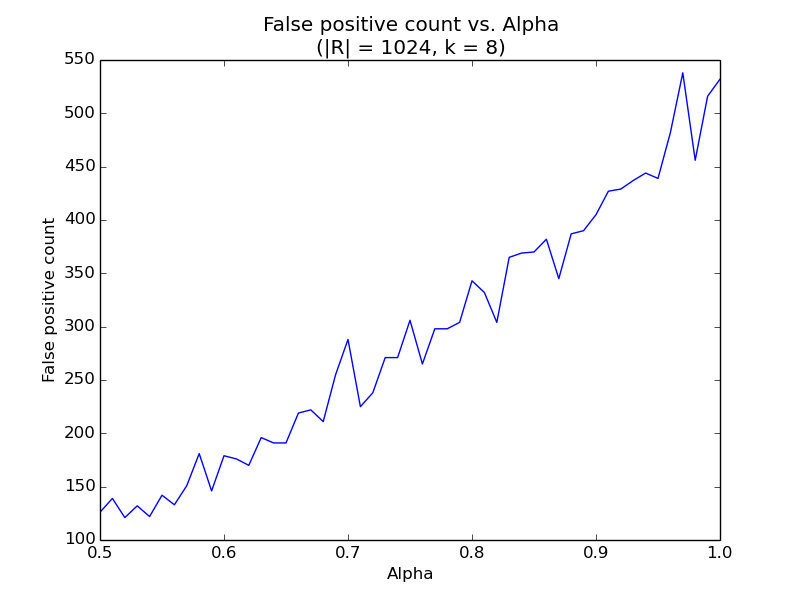
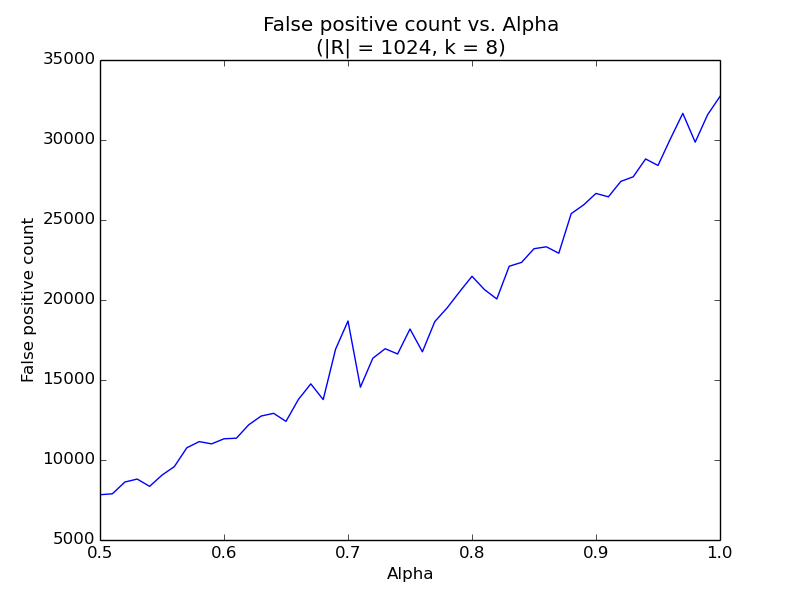
fix: Contagem de falsos positivos e grafico resultante

diff --git a/aux/scripts/analysis/read_analysis.py b/aux/scripts/analysis/read_analysis.py
@@ -38,7 +38,7 @@ def main(results_folder):
     for alpha in sorted(results):
         false_positive_counts[alpha] = 0
         for kmer in results[alpha]:
-            if results[alpha][kmer]['in_read'] and results[alpha][kmer]['query_result'] != 255:
+            if (not results[alpha][kmer]['in_read']) and results[alpha][kmer]['query_result'] != 255:
                 false_positive_counts[alpha] += 1
         
         print('False positive count (alpha = {}): {}'.format(alpha, false_positive_counts[alpha]))
